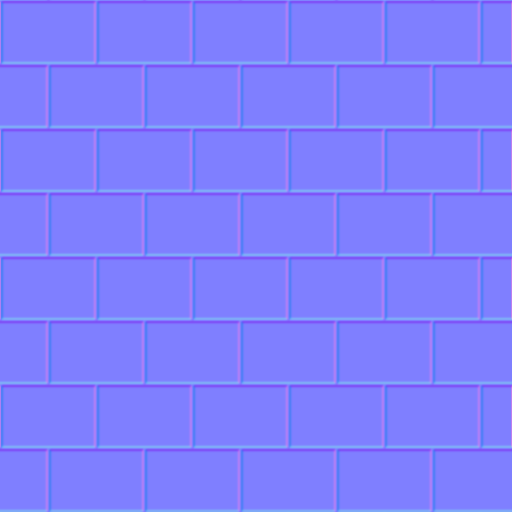
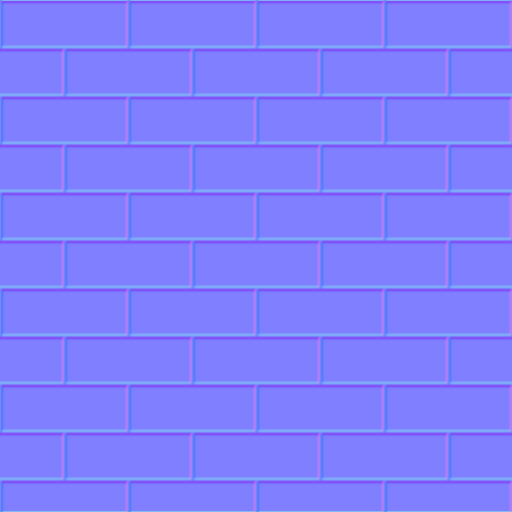
Fix brick orientation + separate tower/wall materials
- Regenerate stone texture with wider, shorter bricks (128x48px instead
  of 96x64px) for horizontal brick courses instead of vertical
- Create stone_tower.vmat with tiling [40,40] — keeps the perfect brick
  scale on towers that the user confirmed
- Update stone_wall.vmat tiling from [40,40] to [80,80] — doubles brick
  density on walls to match tower brick size (walls are much longer faces)
- Update plaza.vmat tiling from [30,30] to [60,60] — smaller flagstones
- Add MatStoneTower constant in LuteMonumentBuilder.cs, use it for towers
  instead of MatStoneWall so towers and walls can have independent tiling

Generated with [Devin](https://devin.ai)

Changed region(s): [[0.0, 0.0, 1.0, 1.0], [0.0, 0.0, 0.0312, 0.0312]]

diff --git a/sbox/code/LuteMonumentBuilder.cs b/sbox/code/LuteMonumentBuilder.cs
@@ -71,6 +71,7 @@ public sealed class LuteMonumentBuilder : Component
 	// --- Material constants (custom PBR textures, differentiated by surface type) ---
 
 	const string MatStoneWall   = "materials/medieval/stone_wall.vmat";   // walls, towers, corners (high tiling)
+	const string MatStoneTower  = "materials/medieval/stone_tower.vmat";  // towers (perfect brick scale)
 	const string MatStoneDetail = "materials/medieval/stone_detail.vmat"; // merlons, well rim, jambs (low tiling)
 	const string MatPlaza       = "materials/medieval/plaza.vmat";        // plaza floor, inner ring, bridges
 	const string MatWood        = "materials/medieval/wood.vmat";         // stalls, workbenches, well posts
@@ -628,7 +629,7 @@ public sealed class LuteMonumentBuilder : Component
 					"models/dev/box.vmdl",
 					towerPos, Rotation.Identity,
 					new Vector3( towerScale, towerScale, towerH / 50f ),
-					material: MatStoneWall );
+					material: MatStoneTower );
 				AddBoxCollider( tower, new Vector3( 50f, 50f, 50f ) );
 
 				// Guard torch light at tower top

diff --git a/agent/generate_textures.py b/agent/generate_textures.py
@@ -75,9 +75,9 @@ print("Generating stone textures...")
 # Color: grey with variation, subtle block lines
 stone_color = Image.new("RGB", (SIZE, SIZE), (120, 115, 105))
 draw = ImageDraw.Draw(stone_color)
-# Add block pattern (horizontal rows of stones)
-block_h = 64  # pixels per stone row
-block_w = 96  # pixels per stone
+# Add block pattern — bricks wider than tall (horizontal courses)
+block_h = 48  # pixels per stone row (shorter = more horizontal look)
+block_w = 128  # pixels per stone (wider = horizontal bricks)
 for row in range(SIZE // block_h + 1):
     offset = (row % 2) * (block_w // 2)  # brick offset
     y0 = row * block_h

diff --git a/agent/fix_tower_mat.py b/agent/fix_tower_mat.py
@@ -1,0 +1,15 @@
+"""Add MatStoneTower constant to LuteMonumentBuilder.cs"""
+path = r'C:\Users\Shadow\Documents\lute\sbox\code\LuteMonumentBuilder.cs'
+with open(path, 'r', encoding='utf-8-sig') as f:
+    lines = f.readlines()
+
+for i, line in enumerate(lines):
+    if 'const string MatStoneWall' in line:
+        new_line = '\tconst string MatStoneTower  = "materials/medieval/stone_tower.vmat";  // towers (perfect brick scale)\n'
+        lines.insert(i + 1, new_line)
+        print(f'Inserted MatStoneTower after line {i+1}')
+        break
+
+with open(path, 'w', encoding='utf-8') as f:
+    f.writelines(lines)
+print('Done')
